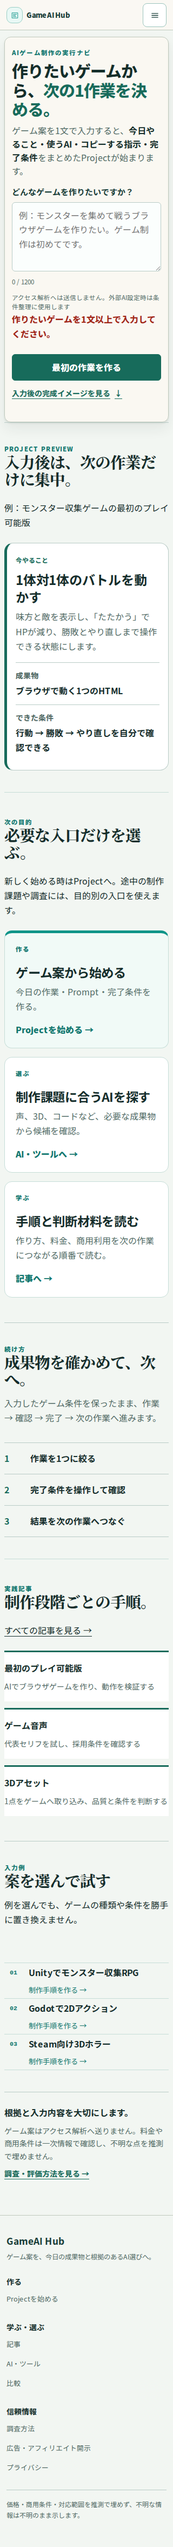
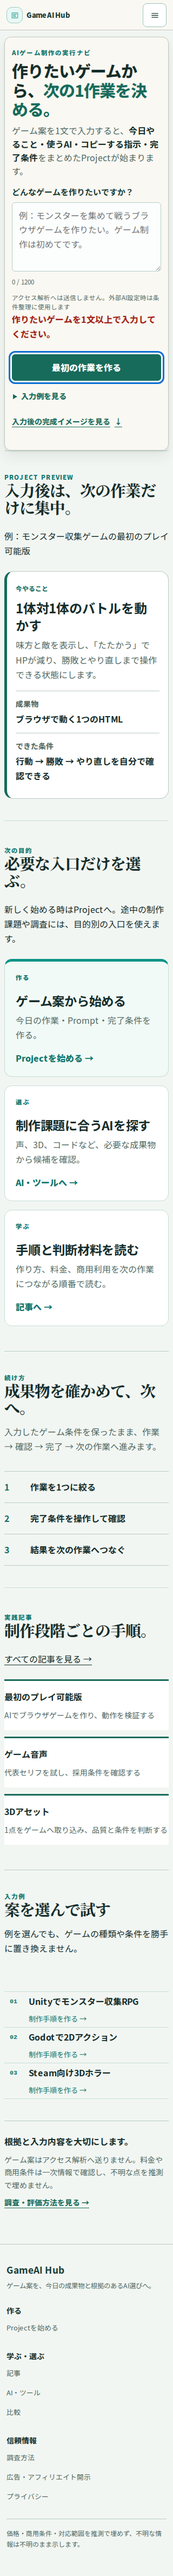
test: bind V2 evidence to measured state diagnostics

diff --git a/e2e/issue-157-reflow-evidence.spec.ts b/e2e/issue-157-reflow-evidence.spec.ts
@@ -22,8 +22,8 @@ import matrix from "../docs/design/visual-layer-v2/TEST-MATRIX.json";
 
 const output = path.join(process.cwd(), "docs/screenshots/issue-157-stage-b/v2");
 const roles: TextRole[] = [
-  { role: "help", selector: ".home-execution-hero .idea-meta span:first-child" },
-  { role: "counter", selector: ".home-execution-hero .idea-meta span:last-child" },
+  { role: "counter", selector: ".home-execution-hero .idea-meta span:first-child" },
+  { role: "privacy-help", selector: ".home-execution-hero .idea-meta span:last-child" },
 ];
 
 test("V2 Home observations emit and validate current typed evidence", async ({
@@ -58,6 +58,7 @@ test("V2 Home observations emit and validate current typed evidence", async ({
     factor = 1,
     coverage,
     textRoles = roles,
+    probeSelector = ".idea-meta",
     spacing,
   }: {
     id: string;
@@ -68,6 +69,7 @@ test("V2 Home observations emit and validate current typed evidence", async ({
     factor?: number;
     coverage: string[];
     textRoles?: TextRole[];
+    probeSelector?: string;
     spacing?: ReflowEvidenceRecord["spacing"];
   }) => {
     await page.setViewportSize({ width, height: 640 });
@@ -78,12 +80,26 @@ test("V2 Home observations emit and validate current typed evidence", async ({
         : method;
     const scale = await applyTextMethod(page, textRoles, selected, factor);
     expect(scale.sufficient).toBe(true);
-    const focusApplicable = false;
-    const surface = await probeSurface(
-      page,
-      caseId === "VL-V2-HOME-INITIAL" ? ".home-execution-hero" : ".idea-meta",
-      0,
+    const focusApplicable = coverage.includes("focus-reachability");
+    const targetSizeApplicable = coverage.includes("target-size");
+    const surface = await probeSurface(page, probeSelector, targetSizeApplicable ? 44 : 0);
+    const row = await probeSemanticRow(
+      page.locator(".idea-meta"),
+      "span:first-child",
+      "span:last-child",
     );
+    const relationships = await page.evaluate(() => {
+      const form = document.querySelector(".home-execution-hero form");
+      const textarea = form?.querySelector("textarea");
+      const button = form?.querySelector('button[type="submit"]');
+      const describedBy = textarea?.getAttribute("aria-describedby")?.split(/\s+/).filter(Boolean) ?? [];
+      const associationsPreserved = describedBy.length > 0 && describedBy.every((id) => Boolean(document.getElementById(id)));
+      const orderPreserved = Boolean(
+        textarea && button &&
+        (textarea.compareDocumentPosition(button) & Node.DOCUMENT_POSITION_FOLLOWING),
+      );
+      return { associationsPreserved, orderPreserved };
+    });
     const widths = await diagnoseWidths(page);
     const screenshot = `${id}.png`;
     await page.screenshot({ path: path.join(output, screenshot), fullPage: true });
@@ -119,16 +135,26 @@ test("V2 Home observations emit and validate current typed evidence", async ({
         clippedText: surface.clippedText.length,
         undersizedTargets: surface.undersizedTargets.length,
         focusApplicable,
-        focusReachable: true,
-        focusVisible: true,
-        orderPreserved: true,
-        associationsPreserved: true,
+        focusReachable: focusApplicable ? surface.focusReachable : true,
+        focusVisible: focusApplicable ? surface.focusVisible : true,
+        orderPreserved: relationships.orderPreserved,
+        associationsPreserved: relationships.associationsPreserved,
       },
-      geometry: { layout: "not-applicable", nonoverlapping: true, contentVisible: surface.clippedText.length === 0, ownedScrollers: widths.ownedLocalScrollers.length },
+      geometry: { layout: row.layout, nonoverlapping: row.nonoverlapping, contentVisible: surface.clippedText.length === 0 && row.contained, ownedScrollers: widths.ownedLocalScrollers.length },
       spacing,
       screenshot: `v2/${screenshot}`,
       limitations: ["Synthetic Chromium text stress; not browser zoom, OS scaling, or physical-device evidence."],
-      reviewerDecision: widths.documentOverflowPx || surface.clippedText.length ? "FAIL" : "PASS",
+      reviewerDecision:
+        widths.documentOverflowPx ||
+        surface.clippedText.length ||
+        surface.undersizedTargets.length ||
+        (focusApplicable && (!surface.focusReachable || !surface.focusVisible)) ||
+        !relationships.orderPreserved ||
+        !relationships.associationsPreserved ||
+        !row.nonoverlapping ||
+        !row.contained
+          ? "FAIL"
+          : "PASS",
       review: { kind: "automated", reviewer: "Playwright V2 evidence emitter" },
       capturedAt: new Date().toISOString(),
     });
@@ -137,23 +163,22 @@ test("V2 Home observations emit and validate current typed evidence", async ({
 
   await page.goto("/");
   await expect(page.locator(".home-execution-hero")).toBeVisible();
-  await observe({ id: "v2-home-initial-320", caseId: "VL-V2-HOME-INITIAL", variantId: "empty-initial-normal-first-view", width: 320, method: "viewport-reflow", coverage: ["viewport-reflow", "text-scale"], textRoles: [{ role: "heading", selector: ".home-execution-hero h1" }] });
+  await observe({ id: "v2-home-initial-320", caseId: "VL-V2-HOME-INITIAL", variantId: "empty-initial-normal-first-view", width: 320, method: "viewport-reflow", coverage: ["viewport-reflow"], textRoles: [{ role: "heading", selector: ".home-execution-hero h1" }], probeSelector: ".home-execution-hero .project-idea-card" });
+  await observe({ id: "v2-home-initial-150", caseId: "VL-V2-HOME-INITIAL", variantId: "empty-initial-normal-first-view", width: 375, method: "synthetic-root-text", factor: 1.5, coverage: ["synthetic-root-text", "text-scale", "factor-150", "viewport-375"], textRoles: [{ role: "heading", selector: ".home-execution-hero h1" }, ...roles], probeSelector: ".home-execution-hero .project-idea-card" });
 
   await page.getByRole("button", { name: "最初の作業を作る" }).click();
   await expect(page.locator(".home-execution-hero [role=alert]")).toBeVisible();
-  await observe({ id: "v2-home-empty-validation", caseId: "VL-V2-HOME-META", variantId: "empty-validation", width: 320, method: "viewport-reflow", coverage: ["semantic-row", "short-height"] });
+  await observe({ id: "v2-home-empty-validation", caseId: "VL-V2-HOME-META", variantId: "empty-validation", width: 320, method: "viewport-reflow", coverage: ["semantic-row", "short-height"], textRoles: [{ role: "validation-error", selector: ".home-execution-hero .form-error" }, { role: "cta", selector: ".home-execution-hero button[type=submit]" }], probeSelector: ".home-execution-hero .project-idea-card" });
 
   await page.goto("/");
-  const row = await probeSemanticRow(page.locator(".idea-meta"), "span:first-child", "span:last-child");
-  expect(row.nonoverlapping && row.contained).toBe(true);
   await observe({ id: "v2-home-meta-100", caseId: "VL-V2-HOME-META", variantId: "counter-privacy", width: 320, method: "synthetic-computed-text", factor: 1, coverage: ["synthetic-computed-text", "factor-100", "viewport-320", "semantic-row"] });
 
   await page.locator(".idea-examples-panel").evaluate((element) => ((element as HTMLDetailsElement).open = true));
-  await observe({ id: "v2-home-examples-150", caseId: "VL-V2-HOME-META", variantId: "examples-expanded", width: 320, method: "synthetic-computed-text", factor: 1.5, coverage: ["synthetic-computed-text", "factor-150", "viewport-320"] });
+  await observe({ id: "v2-home-examples-150", caseId: "VL-V2-HOME-META", variantId: "examples-expanded", width: 320, method: "synthetic-computed-text", factor: 1.5, coverage: ["synthetic-computed-text", "factor-150", "viewport-320"], textRoles: [{ role: "examples-summary", selector: ".idea-examples-panel summary" }, { role: "example-control", selector: ".idea-examples-panel .idea-examples button" }, ...roles], probeSelector: ".home-execution-hero .project-idea-card" });
 
   const idea = page.getByLabel("どんなゲームを作りたいですか？");
   await idea.fill("長".repeat(Number(await idea.getAttribute("maxlength")) || 1000));
-  await observe({ id: "v2-home-maximum-200", caseId: "VL-V2-HOME-META", variantId: "maximum-input", width: 375, method: "synthetic-root-text", factor: 2, coverage: ["synthetic-root-text", "factor-200", "viewport-375"] });
+  await observe({ id: "v2-home-maximum-200", caseId: "VL-V2-HOME-META", variantId: "maximum-input", width: 375, method: "synthetic-computed-text", factor: 2, coverage: ["synthetic-computed-text", "factor-200", "viewport-375"], textRoles: [{ role: "maximum-input", selector: ".home-execution-hero textarea" }, { role: "cta", selector: ".home-execution-hero button[type=submit]" }, ...roles], probeSelector: ".home-execution-hero .project-idea-card" });
 
   for (const override of ["line-height", "paragraph", "letter", "word"] as const) {
     await observe({ id: `v2-home-spacing-${override}`, caseId: "VL-V2-HOME-META", variantId: "counter-privacy", width: 375, method: "text-spacing", coverage: ["text-spacing", `spacing-${override}`], spacing: { override, language: "ja", applicable: true } });
@@ -164,6 +189,6 @@ test("V2 Home observations emit and validate current typed evidence", async ({
     target: { sha, environment: "local", baseUrl: "http://127.0.0.1:3100", worktreeDiffHash },
     records,
   };
-  validateExecutionSubset(matrix, manifest, sha, ["VL-V2-HOME-INITIAL", "VL-V2-HOME-META"]);
   await writeFile(path.join(output, "manifest.json"), `${JSON.stringify({ ...manifest, execution: { testedPaths, command: "npx playwright test e2e/issue-157-reflow-evidence.spec.ts", subsetGate: "PASS" } }, null, 2)}\n`);
+  validateExecutionSubset(matrix, manifest, sha, ["VL-V2-HOME-INITIAL", "VL-V2-HOME-META"]);
 });

diff --git a/app/globals.css b/app/globals.css
@@ -576,7 +576,7 @@ article.page-shell .stage-decision>summary strong{
 @media(max-width:900px){.home-execution-hero{grid-template-columns:1fr}.home-output-cue{display:none}.home-task-preview{grid-template-columns:1fr}.home-resource-list{grid-template-columns:1fr 1fr}.site-footer{grid-template-columns:1fr}.footer-principle{grid-column:auto}}
 @media(max-width:599px){
  .site-header{height:56px}.header-inner{height:56px}.brand-mark{width:32px;height:32px;flex-basis:32px}.brand-copy strong{font-size:.94rem}.brand-copy small{display:none}.main-nav,.header-cta{display:none}.menu-button{display:grid}
- .home-execution-hero{display:block;padding:22px 0 38px}.home-execution-copy h1{max-width:12em;margin-bottom:10px;font-size:var(--type-h1);line-height:1.18;letter-spacing:-.035em;text-wrap:wrap}.home-execution-copy h1 span{display:inline}.home-outcome{font-size:1rem;line-height:1.55}.home-execution-copy .project-idea-card{margin-top:14px}.home-execution-copy .project-idea-card>label span{display:none}.home-execution-copy .project-idea-card textarea{min-height:76px;margin-top:6px}.home-execution-copy .idea-meta span:last-child{display:block}.home-execution-copy .idea-examples-panel{display:none}.home-example-link{margin-top:2px}
+ .home-execution-hero{display:block;padding:22px 0 38px}.home-execution-copy h1{max-width:12em;margin-bottom:10px;font-size:var(--type-h1);line-height:1.18;letter-spacing:-.035em;text-wrap:wrap}.home-execution-copy h1 span{display:inline}.home-outcome{font-size:1rem;line-height:1.55}.home-execution-copy .project-idea-card{margin-top:14px}.home-execution-copy .project-idea-card>label span{display:none}.home-execution-copy .project-idea-card textarea{min-height:76px;margin-top:6px}.home-execution-copy .idea-meta span:last-child{display:block}.home-execution-copy .idea-examples-panel{display:block}.home-example-link{margin-top:2px}
  .home-example,.home-paths,.home-continuation,.home-featured,.example-projects{padding-block:40px}.section-head{display:grid;gap:var(--space-2);margin-bottom:var(--space-5)}.section-head p{margin:0}.home-task-preview{padding:var(--space-4)}
  .home-path-grid{grid-template-columns:1fr}.home-path-grid>a{padding:var(--space-4)}.home-continuation{grid-template-columns:1fr}.home-resource-list{grid-template-columns:1fr}.home-resource-list>a{padding-inline:0}
  .home-trust-note{display:grid;gap:var(--space-2);padding-inline:0}.home-trust-note a{white-space:normal}.footer-groups{grid-template-columns:1fr 1fr}.site-footer{padding-top:var(--space-6)}

diff --git a/e2e/slice-three-articles.spec.ts b/e2e/slice-three-articles.spec.ts
@@ -294,6 +294,19 @@ test("initial-fragment reconciliation yields to the reader and rearms for later 
         .__fragmentScrolls.push({ id: this.id, at: performance.now() });
       return original.apply(this, args as [ScrollIntoViewOptions]);
     };
+    const delayedFonts = new Promise<FontFaceSet>((resolve) => {
+      window.setTimeout(() => {
+        Object.defineProperty(window, "__delayedFontsResolved", {
+          configurable: true,
+          value: true,
+        });
+        resolve(document.fonts);
+      }, 1400);
+    });
+    Object.defineProperty(document.fonts, "ready", {
+      configurable: true,
+      value: delayedFonts,
+    });
   });
   await page.setViewportSize({ width: 390, height: 844 });
   await page.goto(
@@ -309,6 +322,9 @@ test("initial-fragment reconciliation yields to the reader and rearms for later 
     y: scrollY,
   }));
   await page.waitForTimeout(1700);
+  expect(await page.evaluate(() =>
+    Boolean((window as typeof window & { __delayedFontsResolved?: boolean }).__delayedFontsResolved),
+  )).toBe(true);
   expect(await page.evaluate(() =>
     (window as typeof window & { __fragmentScrolls: unknown[] }).__fragmentScrolls.length,
   )).toBe(interrupted.count);

diff --git a/docs/evidence/issue-157-stage-b/INDEPENDENT-REVIEW.md b/docs/evidence/issue-157-stage-b/INDEPENDENT-REVIEW.md
@@ -24,3 +24,16 @@ An independent source-and-render review of the follow-up found one additional P1
 The review also raised pointer-capture coverage as P2. Source reinspection confirmed that capture is acquired on the owning `<ol>` as soon as horizontal drag is recognized and that pointer ID, cancel, lost-capture, resize, visibility, and second-pointer paths clear gesture ownership. Exhaustive rendered pointer/pinch/click-suppression fixtures are still missing, so this remains an evidence-completeness P2 rather than an accepted behavior claim.
 
 Second-pass rendered inspection found no P0 and no remaining observed P1 in the current Deck or breadcrumb captures. It does not close the explicit final-matrix boundary documented in the Stage B README.
+
+## Evidence-first continuation review
+
+The independent adversarial pass found three high-impact P2 gaps in the first
+V2 emitter draft: asserted focus/order/association geometry, state names backed
+only by metadata roles, and no delayed-font completion in the TOC interruption
+negative test. The follow-up binds each state to its risk-bearing roles, writes
+measured semantic-row geometry and DOM relationships, derives applicability
+from the case requirement, and makes PASS depend on those diagnostics. The TOC
+test now delays `document.fonts.ready` past real wheel input and proves that its
+completion cannot restart reconciliation. The targeted second pass completed
+2/2 after these changes. No P0/P1 was found; Project/V3/V4/final evidence remains
+outside this checkpoint rather than being inferred from Home.

diff --git a/docs/codex-progress/issue-157-visual-layer-v2.md b/docs/codex-progress/issue-157-visual-layer-v2.md
@@ -66,7 +66,7 @@ GitHub checks, E2E, observe, and Vercel exact-head status passed for the correct
 ## Evidence-first continuation from `56ade211`
 
 - Added the first typed Stage B application emitter at
-  `e2e/issue-157-reflow-evidence.spec.ts`. Its V2 Home subset has nine actual
+  `e2e/issue-157-reflow-evidence.spec.ts`. Its V2 Home subset has ten actual
   records covering `VL-V2-HOME-INITIAL` and all four `VL-V2-HOME-META`
   variants, including bound 100/150/200 measurements and four independent
   spacing methods. Output is retained under the CI-uploaded

diff --git a/docs/evidence/issue-157-stage-b/README.md b/docs/evidence/issue-157-stage-b/README.md
@@ -32,5 +32,5 @@ actual diagnostics, and a current screenshot. The manifest identifies the
 checkpoint SHA plus a SHA-256 digest of every runtime/test/contract file used
 by the observation.
 
-The V2 Home subset gate passes. Project V2, V3, the remaining V1/V4 cases, and
+The ten-record V2 Home subset gate passes. Project V2, V3, the remaining V1/V4 cases, and
 the final reconciliation are not covered by that subset and remain non-final.
